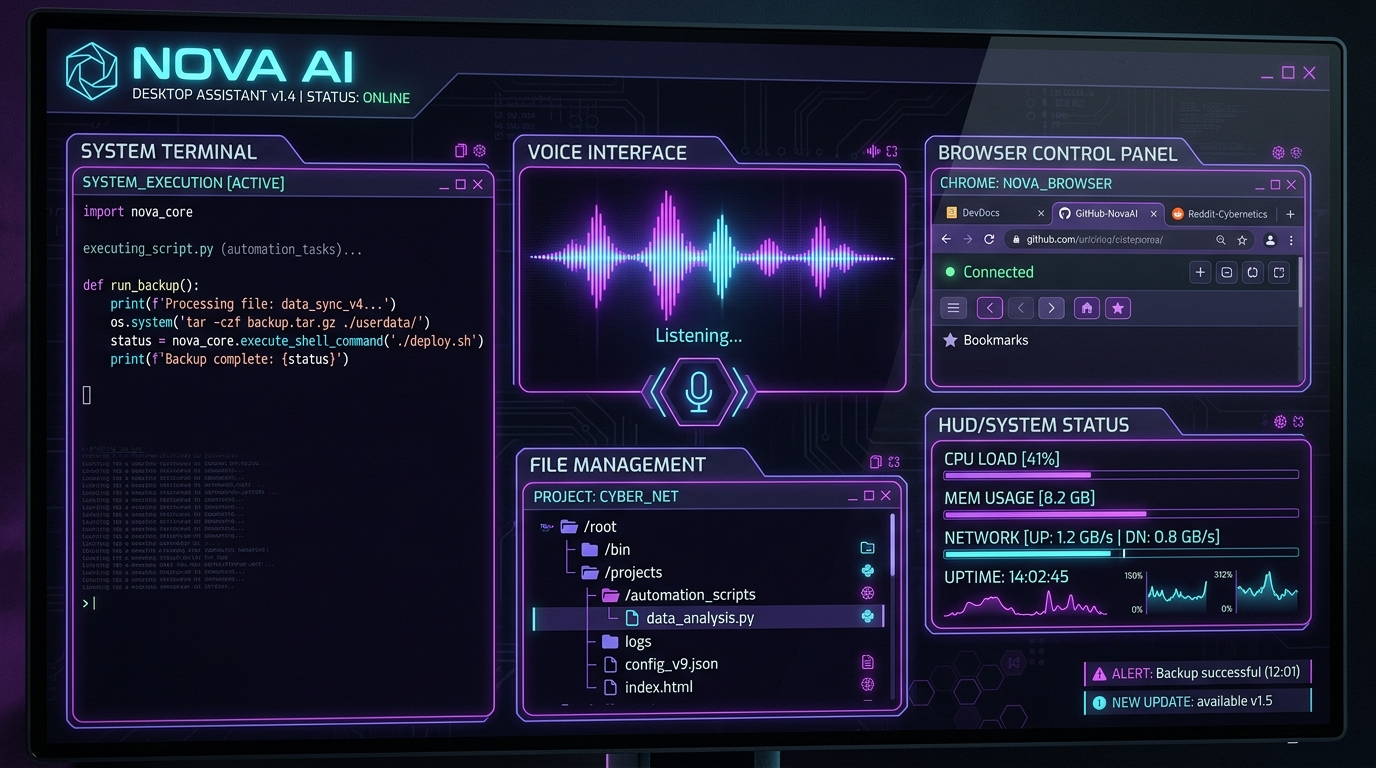
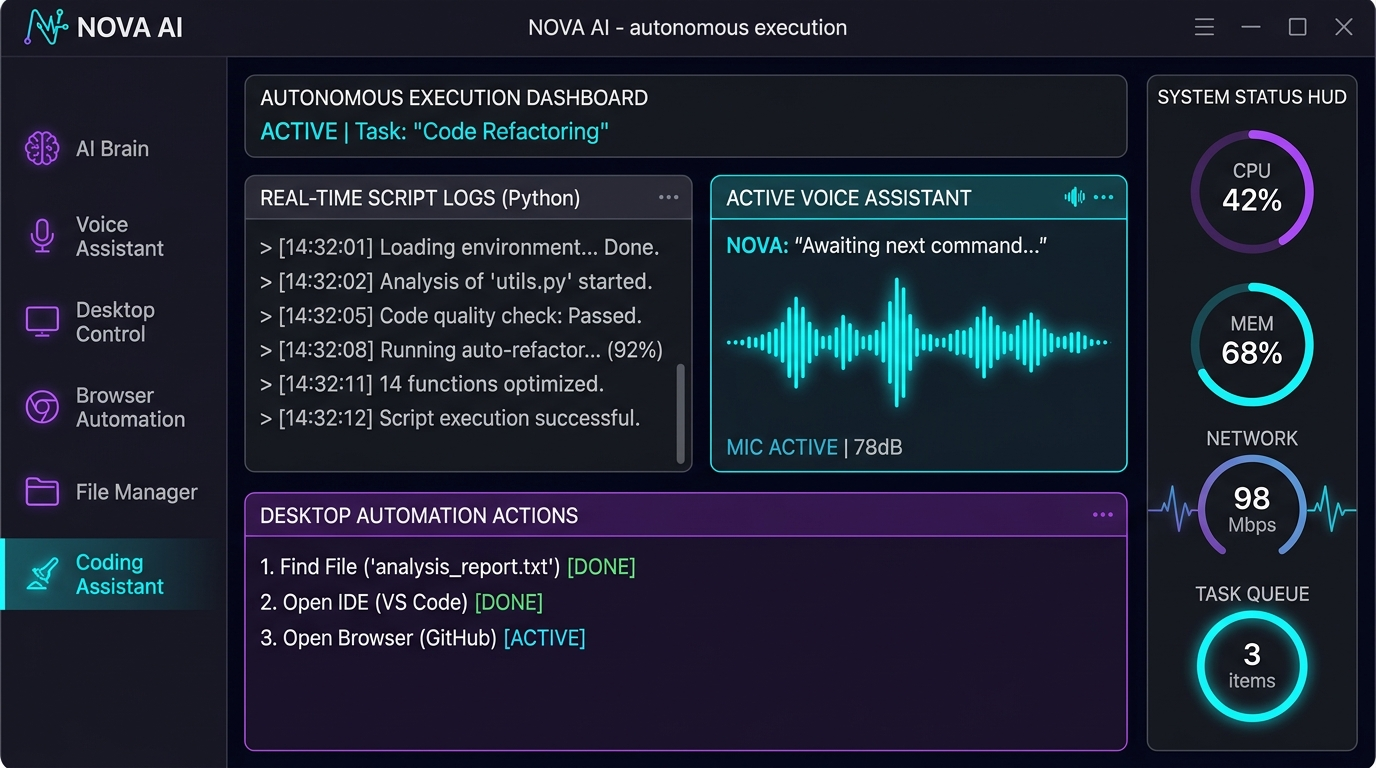
fix: slightly increase 3D cosmic background visibility and replace NOVA AI screenshot with direct pure software desktop application UI and window frame

diff --git a/client/src/components/ThreeBackground.jsx b/client/src/components/ThreeBackground.jsx
@@ -1,6 +1,6 @@
 // ═══════════════════════════════════════════════════
-// COMPONENT: ThreeBackground.jsx — SUBTLE & DARK OVERLAY
-// Reduced particle count, subtle glows, dark readability overlay
+// COMPONENT: ThreeBackground.jsx — BALANCED VISIBILITY & READABLE OVERLAY
+// Background visible subtly with glowing nebula & stars, comfortable contrast
 // ═══════════════════════════════════════════════════
 import { useEffect, useRef } from "react";
 import * as THREE from "three";
@@ -26,8 +26,8 @@ export default function ThreeBackground() {
     renderer.setPixelRatio(Math.min(window.devicePixelRatio, 1.5));
     renderer.setSize(window.innerWidth, window.innerHeight);
 
-    // -- 1. SUBTLE BACKGROUND STARS (Reduced count & opacity) --
-    const mkStars = (n, sz, col, r, op = 0.35) => {
+    // -- 1. STARFIELD (Balanced visibility) --
+    const mkStars = (n, sz, col, r, op = 0.5) => {
       const g = new THREE.BufferGeometry();
       const p = new Float32Array(n * 3);
       for (let i = 0; i < n; i++) {
@@ -48,13 +48,13 @@ export default function ThreeBackground() {
       );
     };
 
-    // Subtly distributed starfield (~2,200 points total)
-    scene.add(mkStars(1200, 0.22, 0xffffff, 1000, 0.30));
-    scene.add(mkStars(500, 0.30, 0xcc88ff, 800, 0.26));
-    scene.add(mkStars(500, 0.26, 0x88ccff, 700, 0.24));
+    // Visible, sparkling starfield
+    scene.add(mkStars(1800, 0.28, 0xffffff, 1000, 0.55));
+    scene.add(mkStars(800, 0.35, 0xcc88ff, 800, 0.48));
+    scene.add(mkStars(800, 0.32, 0x88ccff, 700, 0.45));
 
-    // -- 2. GALAXY NEBULA (Subtle, 3,000 particles) --
-    const NC = 3000;
+    // -- 2. GALAXY NEBULA (Slightly more visible) --
+    const NC = 4500;
     const nGeo = new THREE.BufferGeometry();
     const nPos = new Float32Array(NC * 3);
     const nCol = new Float32Array(NC * 3);
@@ -76,7 +76,7 @@ export default function ThreeBackground() {
       nPos[i * 3 + 2] = Math.sin(ang) * r + sc - 95;
 
       const c = COLS[Math.floor(Math.random() * COLS.length)];
-      const m = Math.random() * 0.35 + 0.25;
+      const m = Math.random() * 0.45 + 0.35;
       nCol[i * 3] = c.r * m;
       nCol[i * 3 + 1] = c.g * m;
       nCol[i * 3 + 2] = c.b * m;
@@ -86,31 +86,31 @@ export default function ThreeBackground() {
     const nebula = new THREE.Points(
       nGeo,
       new THREE.PointsMaterial({
-        size: 0.65,
+        size: 0.8,
         vertexColors: true,
         transparent: true,
-        opacity: 0.30,
+        opacity: 0.48,
         sizeAttenuation: true,
       })
     );
     scene.add(nebula);
 
-    // -- 3. SUBTLE TORUS KNOTS --
+    // -- 3. TORUS KNOTS --
     const knot = new THREE.Mesh(
       new THREE.TorusKnotGeometry(20, 5.5, 180, 18, 2, 3),
-      new THREE.MeshBasicMaterial({ color: 0x9d00ff, wireframe: true, transparent: true, opacity: 0.05 })
+      new THREE.MeshBasicMaterial({ color: 0x9d00ff, wireframe: true, transparent: true, opacity: 0.09 })
     );
     knot.position.set(0, 0, -75);
     scene.add(knot);
 
     const knot2 = new THREE.Mesh(
       new THREE.TorusKnotGeometry(10, 2, 100, 14, 3, 5),
-      new THREE.MeshBasicMaterial({ color: 0x22d3ee, wireframe: true, transparent: true, opacity: 0.04 })
+      new THREE.MeshBasicMaterial({ color: 0x22d3ee, wireframe: true, transparent: true, opacity: 0.08 })
     );
     knot2.position.set(0, 0, -75);
     scene.add(knot2);
 
-    // -- 4. SUBTLE TORUS RINGS --
+    // -- 4. TORUS RINGS --
     const mkTorus = (r, t, col, op, rx, rz, pz) => {
       const m = new THREE.Mesh(
         new THREE.TorusGeometry(r, t, 14, 140),
@@ -122,9 +122,9 @@ export default function ThreeBackground() {
       scene.add(m);
       return m;
     };
-    const tr1 = mkTorus(30, 0.22, 0xec4899, 0.09, Math.PI / 3, 0.2, -70);
-    const tr2 = mkTorus(40, 0.16, 0x22d3ee, 0.07, -Math.PI / 4, -0.15, -70);
-    const tr3 = mkTorus(20, 0.18, 0xa855f7, 0.09, Math.PI / 2, 0, -70);
+    const tr1 = mkTorus(30, 0.22, 0xec4899, 0.16, Math.PI / 3, 0.2, -70);
+    const tr2 = mkTorus(40, 0.16, 0x22d3ee, 0.13, -Math.PI / 4, -0.15, -70);
+    const tr3 = mkTorus(20, 0.18, 0xa855f7, 0.15, Math.PI / 2, 0, -70);
 
     // -- 5. FLOATING WIREFRAME GEOMETRIES --
     const mkFloat = (geo, col, x, y, z, rx, ry) => {
@@ -134,7 +134,7 @@ export default function ThreeBackground() {
           color: col,
           wireframe: true,
           transparent: true,
-          opacity: 0.13,
+          opacity: 0.20,
         })
       );
       m.position.set(x, y, z);
@@ -152,8 +152,8 @@ export default function ThreeBackground() {
     let tRX = 0;
     let tRY = 0;
     const onMouse = e => {
-      tRY = ((e.clientX / window.innerWidth) - 0.5) * 0.14;
-      tRX = -((e.clientY / window.innerHeight) - 0.5) * 0.10;
+      tRY = ((e.clientX / window.innerWidth) - 0.5) * 0.18;
+      tRX = -((e.clientY / window.innerHeight) - 0.5) * 0.12;
     };
     window.addEventListener("mousemove", onMouse);
 
@@ -162,24 +162,24 @@ export default function ThreeBackground() {
     let raf;
     const animate = () => {
       raf = requestAnimationFrame(animate);
-      t += 0.0022;
+      t += 0.0025;
 
-      nebula.rotation.y = t * 0.010;
-      knot.rotation.x = t * 0.09;
-      knot.rotation.y = t * 0.14;
-      knot2.rotation.x = -t * 0.11;
-      knot2.rotation.y = -t * 0.09;
-      tr1.rotation.z = t * 0.05;
+      nebula.rotation.y = t * 0.012;
+      knot.rotation.x = t * 0.10;
+      knot.rotation.y = t * 0.15;
+      knot2.rotation.x = -t * 0.12;
+      knot2.rotation.y = -t * 0.10;
+      tr1.rotation.z = t * 0.06;
       tr2.rotation.z = -t * 0.04;
       tr3.rotation.y = t * 0.03;
 
       floaters.forEach((f, i) => {
         f.rotation.x += f.userData.rx;
         f.rotation.y += f.userData.ry;
-        f.position.y = f.userData.bY + Math.sin(t + i * 1.4) * 1.3;
+        f.position.y = f.userData.bY + Math.sin(t + i * 1.4) * 1.4;
       });
 
-      camera.position.y = 14 + Math.sin(t * 0.3) * 1.0;
+      camera.position.y = 14 + Math.sin(t * 0.35) * 1.1;
       camera.rotation.x += (tRX - camera.rotation.x) * 0.02;
       camera.rotation.y += (tRY - camera.rotation.y) * 0.02;
 
@@ -209,7 +209,7 @@ export default function ThreeBackground() {
         id="bg-canvas"
         style={{ position: "fixed", inset: 0, zIndex: 0, pointerEvents: "none" }}
       />
-      {/* Dark readability backdrop overlay */}
+      {/* Balanced dark overlay: allows background elements to shine softly while keeping text readable */}
       <div
         id="bg-dark-overlay"
         style={{
@@ -217,7 +217,7 @@ export default function ThreeBackground() {
           inset: 0,
           zIndex: 0,
           pointerEvents: "none",
-          background: "radial-gradient(ellipse 90% 70% at 50% 30%, rgba(3, 0, 12, 0.74) 0%, rgba(2, 0, 8, 0.91) 75%, #010005 100%)",
+          background: "radial-gradient(ellipse 90% 70% at 50% 30%, rgba(3, 0, 12, 0.48) 0%, rgba(2, 0, 8, 0.72) 75%, #010005 100%)",
         }}
       />
     </>

diff --git a/client/src/components/Projects.jsx b/client/src/components/Projects.jsx
@@ -1,6 +1,6 @@
 // ═══════════════════════════════════════════════════
 // COMPONENT: Projects.jsx — MAIN PORTFOLIO SHOWCASE
-// Featured NOVA AI (Largest Card & Screenshot) + In Development Status
+// Featured NOVA AI (Largest Card & Clean Desktop Window Screenshot)
 // Other Projects with Screenshot, Description, Tech Stack, GitHub & No fake Live Demo
 // ═══════════════════════════════════════════════════
 import { useState } from "react";
@@ -83,7 +83,7 @@ export default function Projects() {
 
       {/* ══════════════════════════════════════════════════
           FLAGSHIP FEATURED PROJECT: NOVA AI 🤖
-          Largest Card & Dedicated Screenshot
+          Largest Card & Sleek Window Interface Screenshot
           ══════════════════════════════════════════════════ */}
       <div className="nova-flagship-card">
         <div className="nova-card-header">
@@ -94,8 +94,17 @@ export default function Projects() {
           <span className="nova-year">2026</span>
         </div>
 
-        {/* Big NOVA AI Screenshot Banner */}
+        {/* Clean Window Frame around Screenshot */}
         <div className="nova-screenshot-banner">
+          <div className="nova-window-bar">
+            <div className="nova-window-dots">
+              <span className="w-dot dot-red" />
+              <span className="w-dot dot-yellow" />
+              <span className="w-dot dot-green" />
+            </div>
+            <span className="nova-window-title">NOVA AI &bull; Desktop Assistant Interface</span>
+            <span className="nova-window-status">● ACTIVE</span>
+          </div>
           <div className="nova-screenshot-wrap">
             <img
               src="/nova-preview.jpg"
@@ -103,9 +112,6 @@ export default function Projects() {
               className="nova-screenshot-img"
               loading="lazy"
             />
-            <div className="nova-screenshot-overlay">
-              <span className="nova-overlay-pill">NOVA AI INTERFACE &bull; SYSTEM HUD PREVIEW</span>
-            </div>
           </div>
         </div>
 

diff --git a/client/src/index.css b/client/src/index.css
@@ -7506,47 +7506,79 @@ html, body, #root {
   margin: 1.5rem 0 2rem 0;
   border-radius: 12px;
   overflow: hidden;
-  border: 1px solid rgba(168, 85, 247, 0.28);
-  box-shadow: 0 12px 35px rgba(0, 0, 0, 0.55), 0 0 25px rgba(168, 85, 247, 0.15);
-  background: #06020e;
+  border: 1px solid rgba(168, 85, 247, 0.32);
+  box-shadow: 0 14px 40px rgba(0, 0, 0, 0.65), 0 0 30px rgba(168, 85, 247, 0.2);
+  background: #0a0416;
+}
+
+.nova-window-bar {
+  display: flex;
+  align-items: center;
+  justify-content: space-between;
+  padding: 0.65rem 1.1rem;
+  background: rgba(18, 10, 36, 0.95);
+  border-bottom: 1px solid rgba(168, 85, 247, 0.22);
+}
+
+.nova-window-dots {
+  display: flex;
+  align-items: center;
+  gap: 7px;
+}
+
+.w-dot {
+  width: 11px;
+  height: 11px;
+  border-radius: 50%;
+  display: inline-block;
+}
+
+.dot-red {
+  background: #ef4444;
+  box-shadow: 0 0 6px rgba(239, 68, 68, 0.5);
+}
+
+.dot-yellow {
+  background: #f59e0b;
+  box-shadow: 0 0 6px rgba(245, 158, 11, 0.5);
+}
+
+.dot-green {
+  background: #10b981;
+  box-shadow: 0 0 6px rgba(16, 185, 129, 0.5);
+}
+
+.nova-window-title {
+  font-family: var(--font-mono);
+  font-size: 0.76rem;
+  color: var(--text-2);
+  letter-spacing: 0.06em;
+}
+
+.nova-window-status {
+  font-family: var(--font-mono);
+  font-size: 0.72rem;
+  color: #10b981;
+  letter-spacing: 0.08em;
+  font-weight: 600;
 }
 
 .nova-screenshot-wrap {
   position: relative;
   width: 100%;
   overflow: hidden;
+  background: #030008;
 }
 
 .nova-screenshot-img {
   width: 100%;
   height: auto;
-  max-height: 480px;
-  object-fit: cover;
   display: block;
-  transition: transform 0.5s ease;
+  transition: transform 0.45s ease;
 }
 
 .nova-screenshot-wrap:hover .nova-screenshot-img {
-  transform: scale(1.02);
-}
-
-.nova-screenshot-overlay {
-  position: absolute;
-  bottom: 12px;
-  left: 12px;
-  background: rgba(4, 1, 10, 0.85);
-  border: 1px solid rgba(34, 211, 238, 0.4);
-  backdrop-filter: blur(8px);
-  padding: 0.35rem 0.8rem;
-  border-radius: 6px;
-}
-
-.nova-overlay-pill {
-  font-family: var(--font-mono);
-  font-size: 0.68rem;
-  color: var(--cyan);
-  letter-spacing: 0.08em;
-  font-weight: 600;
+  transform: scale(1.015);
 }
 
 /* Modal Screenshot */
